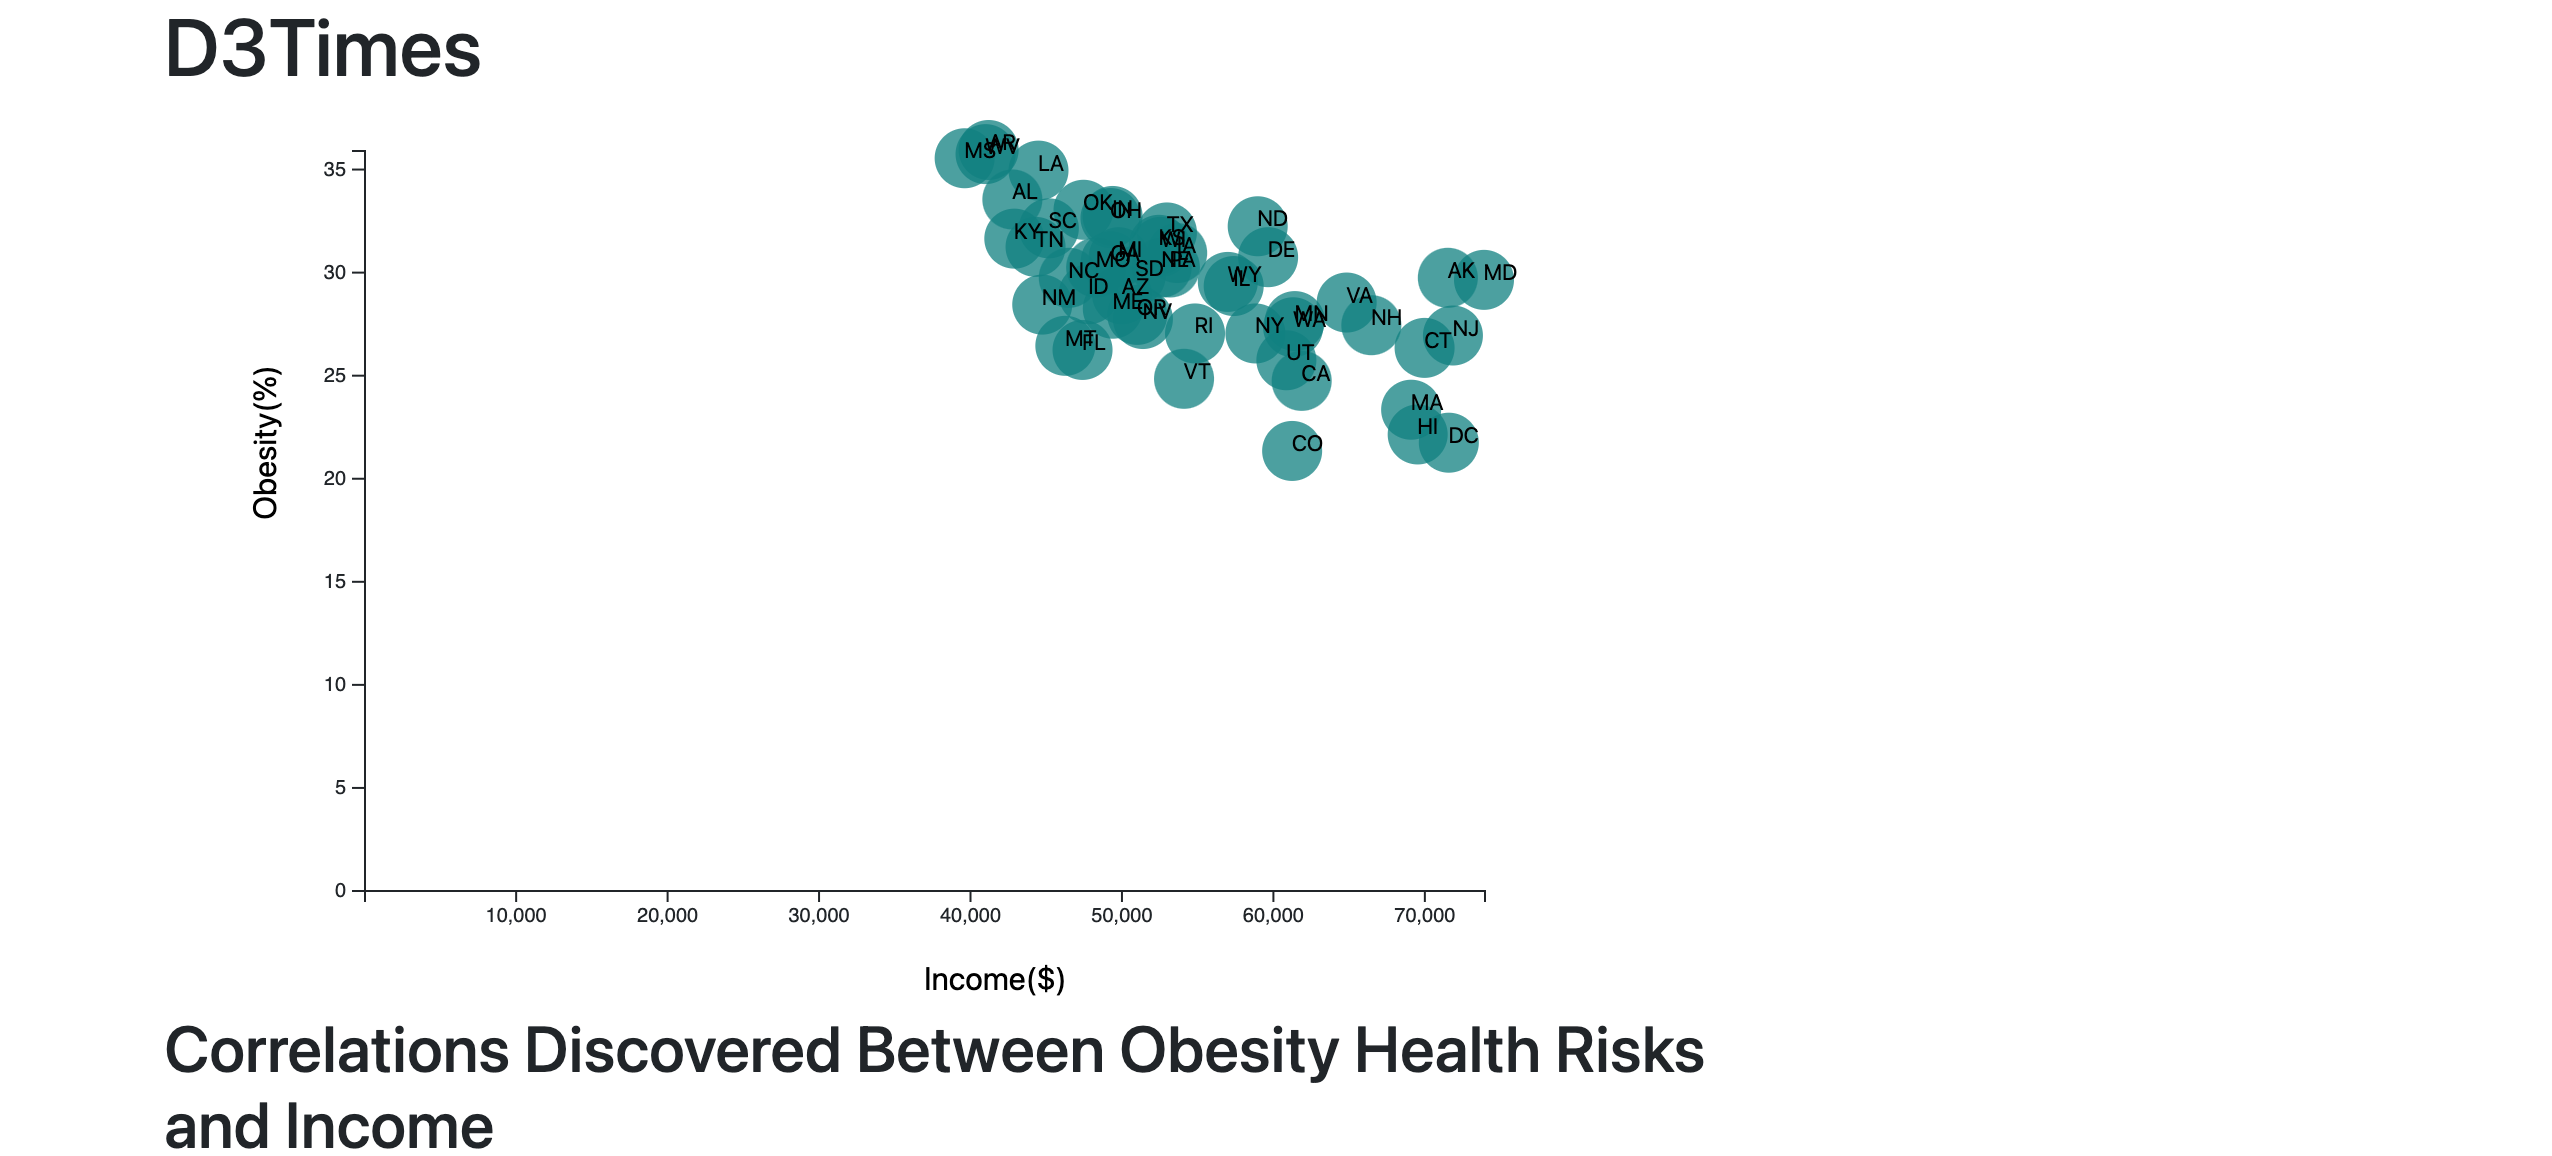
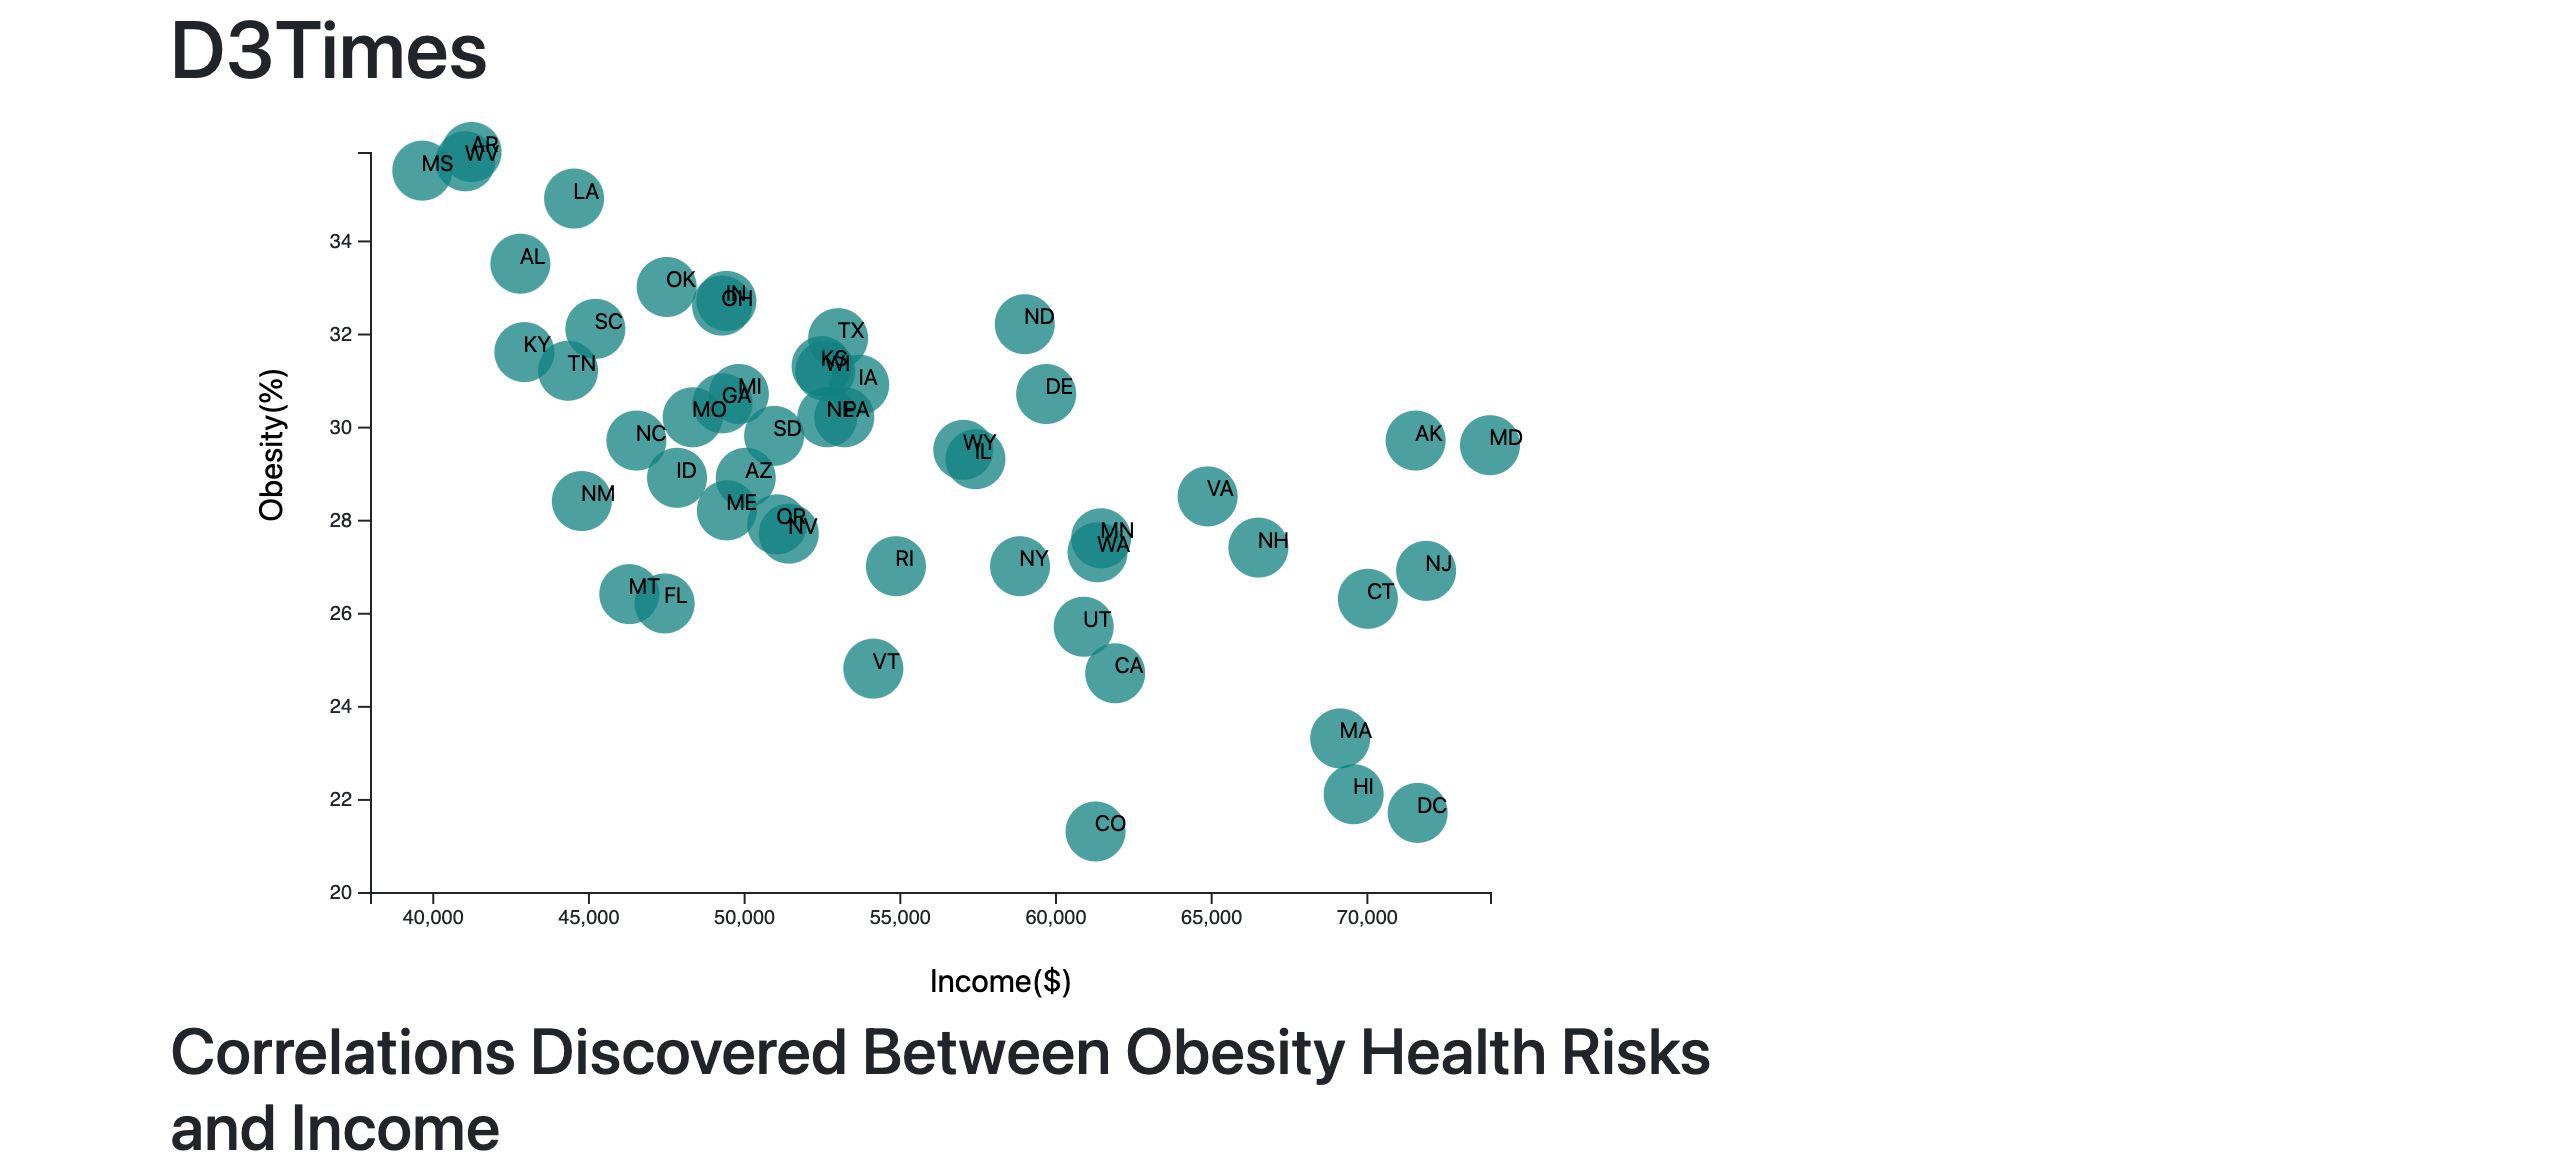
spread out scales to avoid overlap

diff --git a/D3_data_journalism/assets/js/app.js b/D3_data_journalism/assets/js/app.js
@@ -36,11 +36,11 @@ d3.csv("assets/data/data.csv").then(function(data) {
     // Step 2: Create scale functions
     // ==============================
     var xLinearScale = d3.scaleLinear()
-      .domain([20, d3.max(data, d => d.income)])
+      .domain([38000, d3.max(data, d => d.income)])
       .range([0, width]);
 
     var yLinearScale = d3.scaleLinear()
-      .domain([0, d3.max(data, d => d.obesity)])
+      .domain([20, d3.max(data, d => d.obesity)])
       .range([height, 0]);
 
     // Step 3: Create axis functions
